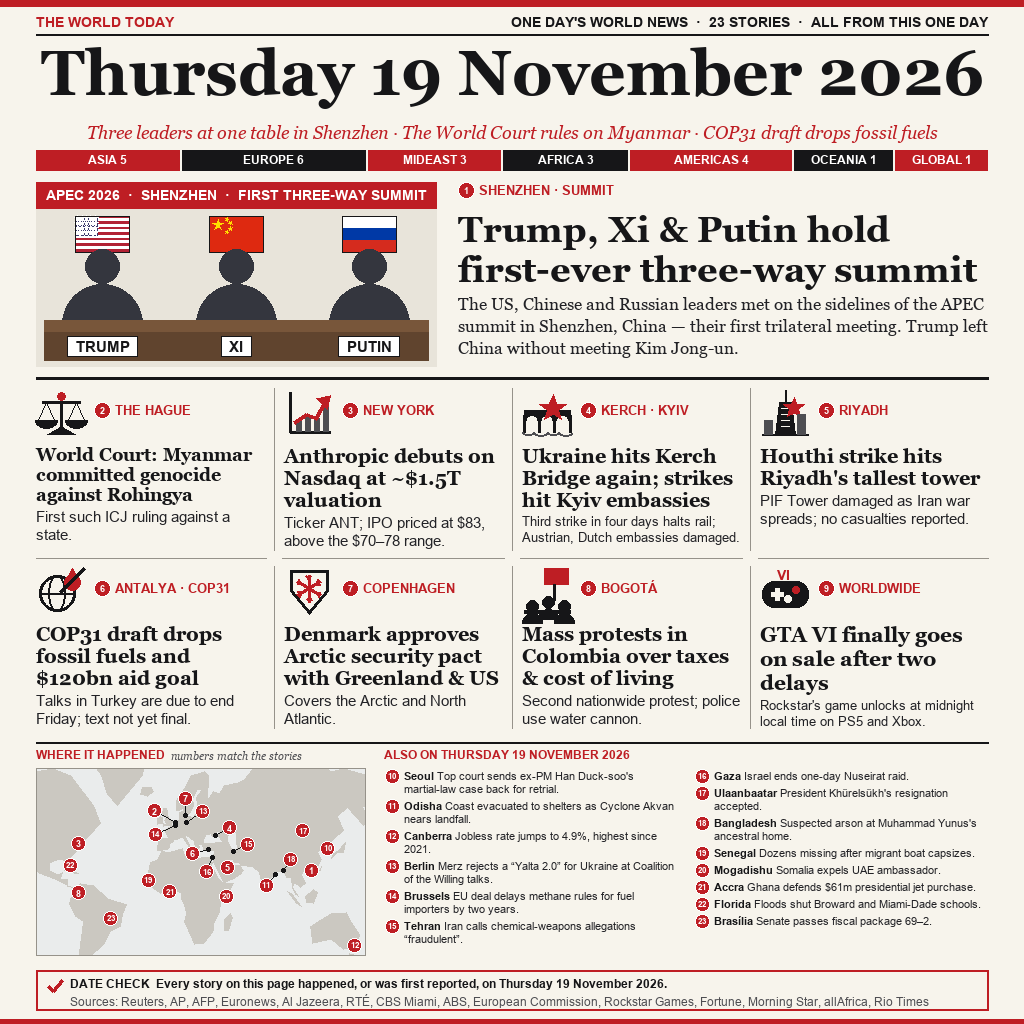
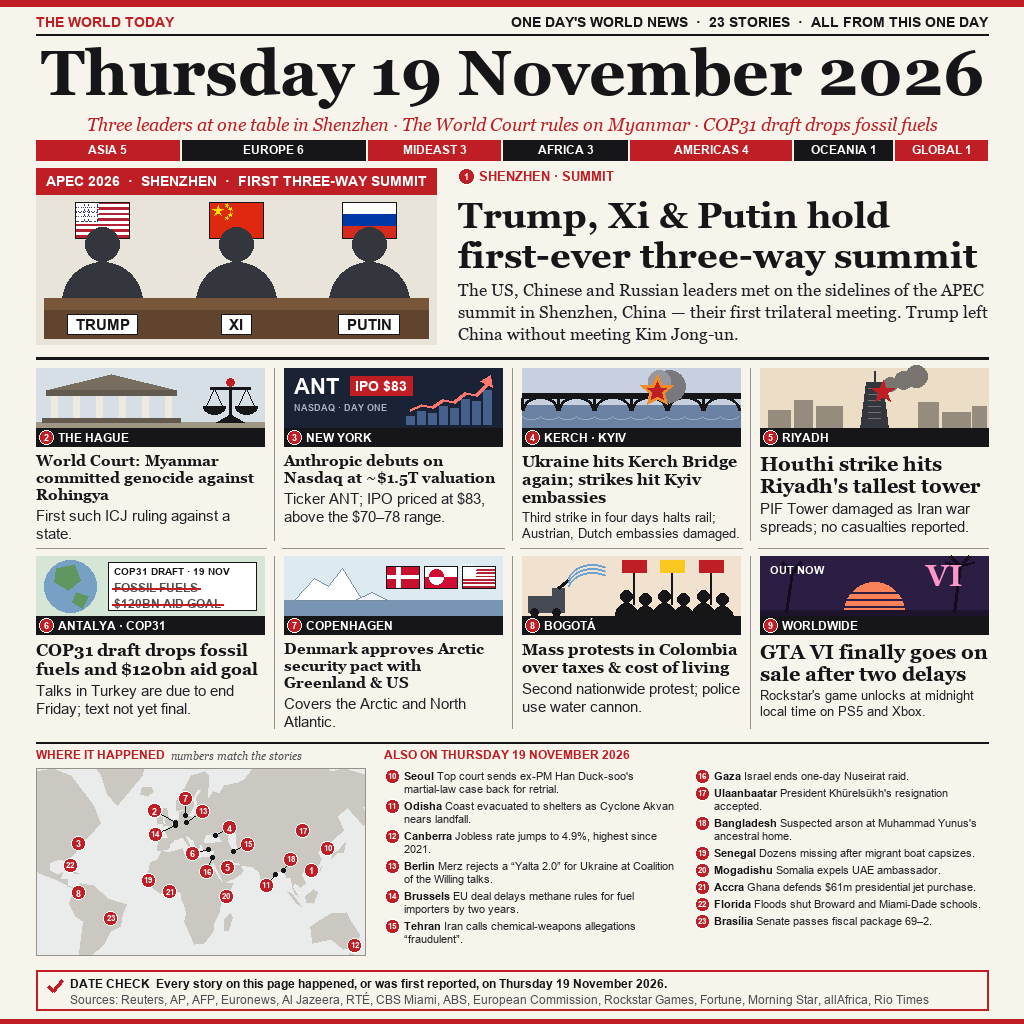
v3: illustrated scene panels for the eight story cells

Changed region(s): [[0.0312, 0.0938, 0.9688, 0.7188], [0.0625, 0.9688, 0.9062, 1.0]]

diff --git a/build.py b/build.py
@@ -361,6 +361,168 @@ def draw_summit(d, x, y, w, h):
         d.text((cx - tw / 2 + 8, table_y + 18), name, font=nf, fill=INK)
 
 
+# ---------------------------------------------------------------- story scenes (w x h panels)
+
+def _clip_panel(d, x, y, w, h, bg):
+    d.rectangle([x, y, x + w, y + h], fill=bg)
+
+
+def scene_hague(d, x, y, w, h):
+    _clip_panel(d, x, y, w, h, (214, 222, 230))
+    gy = y + h - 6
+    d.rectangle([x, gy, x + w, y + h], fill=(160, 150, 132))
+    bx0, bx1 = x + 14, x + w * 0.6
+    top = y + 22
+    d.polygon([(bx0 - 4, top), ((bx0 + bx1) / 2, y + 6), (bx1 + 4, top)], fill=(120, 110, 96))
+    d.rectangle([bx0 - 4, top, bx1 + 4, top + 5], fill=(98, 90, 78))
+    for i in range(6):
+        cx = bx0 + 4 + i * (bx1 - bx0 - 8) / 5
+        d.rectangle([cx - 3, top + 6, cx + 3, gy - 4], fill=(238, 234, 224))
+    d.rectangle([bx0 - 8, gy - 4, bx1 + 8, gy], fill=(98, 90, 78))
+    icon_scales(d, x + w - 60, y + 6, 52)
+
+
+def scene_ny(d, x, y, w, h):
+    _clip_panel(d, x, y, w, h, (26, 34, 54))
+    f = F(SANS_BOLD, 22)
+    d.text((x + 10, y + 6), "ANT", font=f, fill=WHITE)
+    d.text((x + 10, y + 34), "NASDAQ · DAY ONE", font=F(SANS_BOLD, 9), fill=(170, 180, 200))
+    pf = F(SANS_BOLD, 14)
+    d.rectangle([x + 66, y + 8, x + 66 + text_w(d, "IPO $83", pf) + 10, y + 27], fill=RED)
+    d.text((x + 71, y + 10), "IPO $83", font=pf, fill=WHITE)
+    base = y + h - 4
+    bars = [8, 13, 11, 18, 16, 25, 23, 34]
+    bw = 8
+    x0 = x + w - len(bars) * (bw + 3) - 8
+    pts = []
+    for i, b in enumerate(bars):
+        bx = x0 + i * (bw + 3)
+        d.rectangle([bx, base - b, bx + bw, base], fill=(70, 96, 140))
+        pts.append((bx + bw / 2, base - b - 6))
+    d.line(pts, fill=(255, 120, 110), width=3)
+    tx, ty = pts[-1]
+    d.polygon([(tx + 3, ty - 9), (tx - 7, ty - 3), (tx + 5, ty + 3)], fill=(255, 120, 110))
+
+
+def scene_kerch(d, x, y, w, h):
+    _clip_panel(d, x, y, w, h, (198, 208, 222))
+    wy = y + h * 0.62
+    d.rectangle([x, wy, x + w, y + h], fill=(108, 130, 162))
+    for i in range(0, int(w) - 18, 18):
+        d.arc([x + i, wy + 8, x + i + 18, wy + 14], 0, 180, fill=(150, 170, 196), width=1)
+    deck = y + h * 0.42
+    n = 6
+    for i in range(n):
+        ax = x + i * w / n
+        d.arc([ax, deck + 3, ax + w / n, deck + 3 + w / n * 0.8], 180, 360, fill=INK, width=3)
+        d.line([ax, deck + 5, ax, wy + 4], fill=INK, width=3)
+    d.rectangle([x, deck, x + w, deck + 5], fill=INK)
+    ex, ey = x + w * 0.62, deck - 2
+    for r, c, ox in ((16, (120, 120, 126), 12), (11, (150, 150, 156), 2)):
+        d.ellipse([ex - r + ox, y + 2, ex + r + ox, y + 2 + 2 * r], fill=c)
+    d.polygon(star(ex, ey, 17, 8), fill=(240, 140, 40))
+    d.polygon(star(ex, ey, 10, 5), fill=RED)
+
+
+def scene_riyadh(d, x, y, w, h):
+    _clip_panel(d, x, y, w, h, (236, 222, 198))
+    base = y + h
+    for bx, bw, bh in ((8, 22, 18), (34, 18, 28), (56, 26, 22), (w - 70, 20, 26), (w - 46, 28, 16), (w - 16, 14, 22)):
+        d.rectangle([x + bx, base - bh, x + bx + bw, base], fill=(150, 140, 126))
+    cx = x + w * 0.5
+    d.polygon([(cx - 14, base), (cx + 14, base), (cx + 8, y + 14), (cx - 8, y + 14)], fill=(52, 54, 62))
+    d.line([cx, y + 3, cx, y + 14], fill=(52, 54, 62), width=2)
+    for wy in range(int(y + 20), int(base - 4), 6):
+        d.line([cx - 6, wy, cx + 6, wy], fill=(110, 112, 120), width=1)
+    for i, r in enumerate((7, 9, 11)):
+        sx, sy = cx + 16 + i * 13, y + 16 - i * 4
+        d.ellipse([sx - r, sy - r, sx + r, sy + r], fill=(120, 116, 112))
+    d.polygon(star(cx + 9, y + 24, 12, 5), fill=RED)
+
+
+def scene_cop(d, x, y, w, h):
+    _clip_panel(d, x, y, w, h, (214, 230, 214))
+    gx, gy, r = x + 34, y + h / 2, 26
+    d.ellipse([gx - r, gy - r, gx + r, gy + r], fill=(118, 160, 196))
+    d.polygon([(gx - 14, gy - 18), (gx + 4, gy - 22), (gx + 10, gy - 6), (gx - 2, gy + 4), (gx - 16, gy - 4)], fill=(96, 150, 96))
+    d.polygon([(gx + 6, gy + 6), (gx + 18, gy + 10), (gx + 12, gy + 22), (gx + 2, gy + 16)], fill=(96, 150, 96))
+    px0 = x + 72
+    d.rectangle([px0, y + 6, x + w - 8, y + h - 6], fill=WHITE, outline=INK)
+    f = F(SANS_BOLD, 10)
+    d.text((px0 + 6, y + 9), "COP31 DRAFT · 19 NOV", font=f, fill=INK)
+    f2 = F(SANS_BOLD, 12)
+    for i, t in enumerate(("FOSSIL FUELS", "$120BN AID GOAL")):
+        ty = y + 25 + i * 16
+        d.text((px0 + 6, ty), t, font=f2, fill=(80, 80, 84))
+        d.line([px0 + 4, ty + 7, px0 + 8 + text_w(d, t, f2), ty + 7], fill=RED, width=2)
+
+
+def flag_dk(d, x, y, w, h):
+    d.rectangle([x, y, x + w, y + h], fill=(200, 16, 46))
+    d.rectangle([x + w * 0.33, y, x + w * 0.33 + h * 0.18, y + h], fill=WHITE)
+    d.rectangle([x, y + h * 0.41, x + w, y + h * 0.59], fill=WHITE)
+    d.rectangle([x, y, x + w, y + h], outline=INK, width=1)
+
+
+def flag_gl(d, x, y, w, h):
+    d.rectangle([x, y, x + w, y + h / 2], fill=WHITE)
+    d.rectangle([x, y + h / 2, x + w, y + h], fill=(208, 12, 51))
+    cx, cy, r = x + w * 0.38, y + h / 2, h * 0.33
+    d.pieslice([cx - r, cy - r, cx + r, cy + r], 180, 360, fill=(208, 12, 51))
+    d.pieslice([cx - r, cy - r, cx + r, cy + r], 0, 180, fill=WHITE)
+    d.rectangle([x, y, x + w, y + h], outline=INK, width=1)
+
+
+def scene_arctic(d, x, y, w, h):
+    _clip_panel(d, x, y, w, h, (222, 234, 242))
+    wy = y + h - 16
+    d.rectangle([x, wy, x + w, y + h], fill=(120, 150, 180))
+    d.polygon([(x + 10, wy), (x + 30, y + 22), (x + 44, y + 30), (x + 58, y + 12), (x + 78, wy)], fill=WHITE, outline=(120, 140, 160))
+    d.polygon([(x + 70, wy), (x + 88, y + 36), (x + 104, wy)], fill=(240, 246, 250), outline=(120, 140, 160))
+    fw, fh = 33, 22
+    fx = x + w - 3 * (fw + 5) - 2
+    for i, fn in enumerate((flag_dk, flag_gl, flag_us)):
+        fn(d, fx + i * (fw + 5), y + 10, fw, fh)
+
+
+def scene_bogota(d, x, y, w, h):
+    _clip_panel(d, x, y, w, h, (240, 226, 206))
+    base = y + h
+    d.rectangle([x + 6, base - 20, x + 42, base - 4], fill=(70, 74, 82))
+    d.rectangle([x + 30, base - 28, x + 42, base - 20], fill=(70, 74, 82))
+    for wx in (x + 12, x + 34):
+        d.ellipse([wx - 4, base - 8, wx + 4, base], fill=INK)
+    d.line([x + 36, base - 28, x + 46, base - 36], fill=INK, width=3)
+    for i in range(3):
+        d.arc([x + 44, base - 52 + i * 4, x + 96, base - 10 + i * 4], 200, 300, fill=(110, 160, 210), width=2)
+    for i in range(6):
+        cx = x + 104 + i * (w - 112) / 5.5
+        hy = base - 26 + (i % 2) * 3
+        if i % 2 == 0:
+            d.line([cx + 8, hy + 14, cx + 8, y + 14], fill=INK, width=2)
+            d.rectangle([cx - 4, y + 4, cx + 20, y + 16], fill=RED if i != 2 else (250, 200, 30))
+        d.ellipse([cx - 6, hy, cx + 6, hy + 12], fill=INK)
+        d.pieslice([cx - 11, hy + 13, cx + 11, hy + 37], 180, 360, fill=INK)
+
+
+def scene_gta(d, x, y, w, h):
+    _clip_panel(d, x, y, w, h, (44, 30, 66))
+    cx, cy = x + w * 0.5, y + h - 4
+    d.pieslice([cx - 30, cy - 30, cx + 30, cy + 30], 180, 360, fill=(250, 130, 90))
+    for i in range(3):
+        d.line([cx - 32, cy - 20 + i * 7, cx + 32, cy - 20 + i * 7], fill=(44, 30, 66), width=2)
+    d.rectangle([x, y + h - 6, x + w, y + h], fill=(30, 20, 46))
+    for px, hgt in ((x + 26, 44), (x + w - 34, 50)):
+        tx, ty = px + 6, y + h - hgt
+        d.line([px, y + h - 4, tx, ty], fill=(20, 12, 30), width=3)
+        for a in (200, 230, 310, 340):
+            ang = math.radians(a)
+            d.line([tx, ty, tx + 15 * math.cos(ang), ty - 15 * math.sin(ang) * -1 + 2], fill=(20, 12, 30), width=3)
+    f = F(SERIF_BOLD, 30)
+    d.text((x + w - 62, y + 2), "VI", font=f, fill=(255, 150, 200))
+    d.text((x + 10, y + 8), "OUT NOW", font=F(SANS_BOLD, 11), fill=WHITE)
+
+
 # ---------------------------------------------------------------- content
 # Lead = 1, cells = 2..9, briefs = 10.. ; region is for the region bar.
 # Every item happened or was first reported on Thursday 19 November 2026.
@@ -376,28 +538,28 @@ LEAD = dict(
 )
 
 CELLS = [
-    dict(n=2, region="EUROPE", where="THE HAGUE", ll=(4.3, 52.1), icon=icon_scales,
+    dict(n=2, region="EUROPE", where="THE HAGUE", ll=(4.3, 52.1), icon=scene_hague,
          head="World Court: Myanmar committed genocide against Rohingya",
          text="First such ICJ ruling against a state."),
-    dict(n=3, region="AMERICAS", where="NEW YORK", ll=(-74.0, 40.7), icon=icon_chart,
+    dict(n=3, region="AMERICAS", where="NEW YORK", ll=(-74.0, 40.7), icon=scene_ny,
          head="Anthropic debuts on Nasdaq at ~$1.5T valuation",
          text="Ticker ANT; IPO priced at $83, above the $70–78 range."),
-    dict(n=4, region="EUROPE", where="KERCH · KYIV", ll=(36.5, 45.3), icon=icon_bridge,
+    dict(n=4, region="EUROPE", where="KERCH · KYIV", ll=(36.5, 45.3), icon=scene_kerch,
          head="Ukraine hits Kerch Bridge again; strikes hit Kyiv embassies",
          text="Third strike in four days halts rail; Austrian, Dutch embassies damaged."),
-    dict(n=5, region="MIDEAST", where="RIYADH", ll=(46.7, 24.7), icon=icon_tower,
+    dict(n=5, region="MIDEAST", where="RIYADH", ll=(46.7, 24.7), icon=scene_riyadh,
          head="Houthi strike hits Riyadh's tallest tower",
          text="PIF Tower damaged as Iran war spreads; no casualties reported."),
-    dict(n=6, region="EUROPE", where="ANTALYA · COP31", ll=(30.7, 36.9), icon=icon_climate,
+    dict(n=6, region="EUROPE", where="ANTALYA · COP31", ll=(30.7, 36.9), icon=scene_cop,
          head="COP31 draft drops fossil fuels and $120bn aid goal",
          text="Talks in Turkey are due to end Friday; text not yet final."),
-    dict(n=7, region="EUROPE", where="COPENHAGEN", ll=(12.6, 55.7), icon=icon_arctic,
+    dict(n=7, region="EUROPE", where="COPENHAGEN", ll=(12.6, 55.7), icon=scene_arctic,
          head="Denmark approves Arctic security pact with Greenland & US",
          text="Covers the Arctic and North Atlantic."),
-    dict(n=8, region="AMERICAS", where="BOGOTÁ", ll=(-74.1, 4.6), icon=icon_protest,
+    dict(n=8, region="AMERICAS", where="BOGOTÁ", ll=(-74.1, 4.6), icon=scene_bogota,
          head="Mass protests in Colombia over taxes & cost of living",
          text="Second nationwide protest; police use water cannon."),
-    dict(n=9, region="GLOBAL", where="WORLDWIDE", ll=None, icon=icon_game,
+    dict(n=9, region="GLOBAL", where="WORLDWIDE", ll=None, icon=scene_gta,
          head="GTA VI finally goes on sale after two delays",
          text="Rockstar's game unlocks at midnight local time on PS5 and Xbox."),
 ]
@@ -508,7 +670,7 @@ def build(out):
     rt = f"ONE DAY'S WORLD NEWS  ·  {total} STORIES  ·  ALL FROM THIS ONE DAY"
     d.text((R - text_w(d, rt, kf), 14), rt, font=kf, fill=INK)
     d.line([L, 34, R, 34], fill=INK, width=2)
-    df = F(SERIF_BOLD, 74)
+    df = F(SERIF_BOLD, 70)
     while text_w(d, DATE_LONG, df) > inner:
         df = F(SERIF_BOLD, df.size - 2)
     d.text(((W - text_w(d, DATE_LONG, df)) / 2, 36), DATE_LONG, font=df, fill=INK)
@@ -517,14 +679,14 @@ def build(out):
            "COP31 draft drops fossil fuels")
     while text_w(d, sub, sf) > inner:
         sf = F(SERIF_ITALIC, sf.size - 1)
-    d.text(((W - text_w(d, sub, sf)) / 2, 122), sub, font=sf, fill=RED)
+    d.text(((W - text_w(d, sub, sf)) / 2, 114), sub, font=sf, fill=RED)
 
     # --- region bar
     counts = {}
     for it in [LEAD] + CELLS + BRIEFS:
         counts[it["region"]] = counts.get(it["region"], 0) + 1
     regs = [r for r in REGION_ORDER if counts.get(r)]
-    by = 150
+    by = 140
     rf = F(SANS_BOLD, 12)
     x = L
     min_w = {r: text_w(d, f"{r} {counts[r]}", rf) + 14 for r in regs}
@@ -537,8 +699,8 @@ def build(out):
         x += wdt + 3
 
     # --- lead
-    top = by + 32
-    ill_w, ill_h = 400, 184
+    top = by + 28
+    ill_w, ill_h = 400, 176
     draw_summit(d, L, top, ill_w, ill_h)
     tx = L + ill_w + 22
     twd = R - tx
@@ -566,7 +728,7 @@ def build(out):
     cw = inner / 4
     ch = (g_bot - g_top) / 2
     pad = 10
-    icon_s = 50
+    ph = 60
     for i, c in enumerate(CELLS):
         r, k = divmod(i, 4)
         cx, cy = L + k * cw, g_top + r * ch
@@ -578,9 +740,11 @@ def build(out):
         x1 = cx + cw - (pad if k < 3 else 0)
         wd = x1 - x0
         t = cy + 8
-        c["icon"](d, x0, t, icon_s)
-        num_tag(d, x0 + icon_s + 8, t + 14, c["n"], c["where"], max_w=wd - icon_s - 8)
-        hy = t + icon_s + 6
+        c["icon"](d, x0, t, wd, ph)
+        d.rectangle([x0, t + ph, x0 + wd, t + ph + 18], fill=INK)
+        marker(d, x0 + 10, t + ph + 9, c["n"])
+        d.text((x0 + 22, t + ph + 3), c["where"], font=F(SANS_BOLD, 12), fill=WHITE)
+        hy = t + ph + 24
         limit = cy + ch - 4
         dfnt, dl = fit(d, c["text"], SANS, wd, 2, 15, 12)
         d_h = 4 + len(dl) * line_h(dfnt, 1.22)
@@ -644,7 +808,7 @@ def build(out):
     srcf = foot_f
     while text_w(d, SOURCES, srcf) > inner - 34:
         srcf = F(SANS, srcf.size - 1)
-    d.text((cx0 + 22, foot_top + 25), SOURCES, font=srcf, fill=GREY)
+    d.text((cx0 + 22, foot_top + 23), SOURCES, font=srcf, fill=GREY)
     d.rectangle([0, H - 5, W, H], fill=RED)
 
     img.save(out, "PNG", optimize=True)
